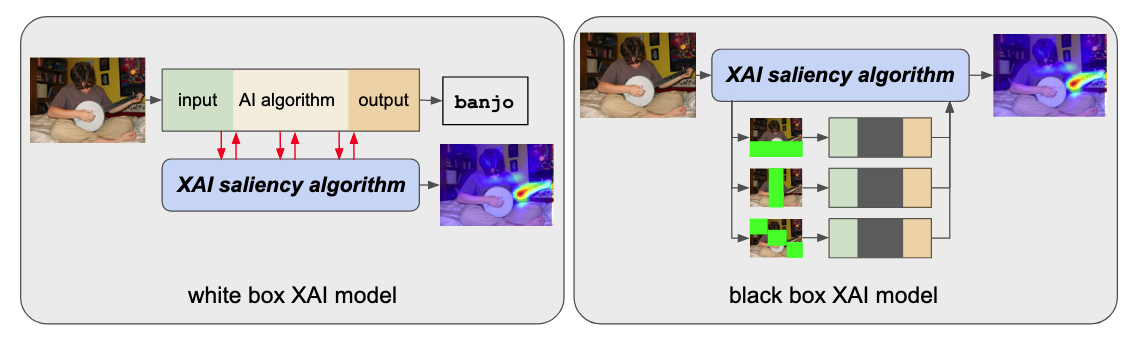
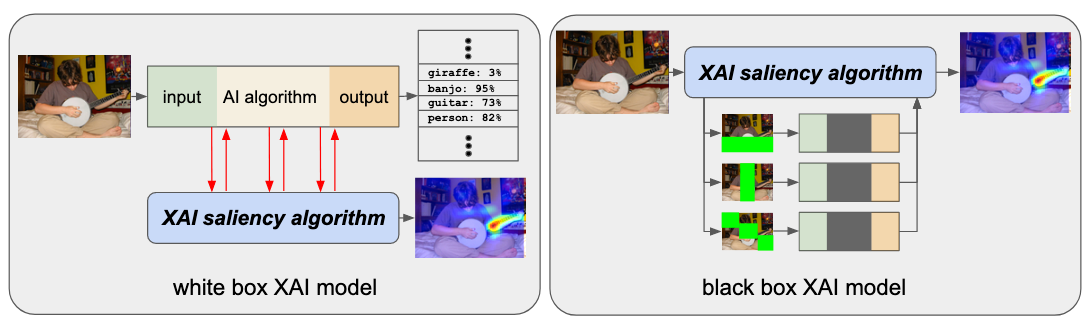
Address final round of comments

Changed region(s): [[0.0, 0.0305, 0.9982, 0.9756]]

diff --git a/docs/introduction.rst b/docs/introduction.rst
@@ -33,12 +33,13 @@ Image Saliency Maps: An Intuitive Introduction
 ----------------------------------------------
 
 Figure 4 shows a deep learning pipeline for recognizing objects in
-images; pixels in the image (in green) are processed by the pipeline
-(in yellow) to produce the output (in orange). Here, the system has been
-trained to recognize 1000 object categories. Its output is a list of
-1000 numbers, one for each object type; each number is between 0 and
-1, representing the system's estimate of whether or not that
-particular object is in the image.
+images; pixels in the image (in green) are processed by the
+Convolutional Neural Network (CNN, in yellow) to produce the
+output (in orange). Here, the system has been trained to recognize
+1000 object categories. Its output is a list of 1000 numbers, one for
+each object type; each number is between 0 and 1, representing the
+system's estimate of whether or not that particular object is in the
+image.
 
 .. figure:: figures/cnn-tagged-scaled.png
 
@@ -98,7 +99,7 @@ approaches to this:
    we can deduce certain aspects of the how the AI and its model behaves.
 
 These are illustrated in Figure 5. Note how the AI algorithm is
-obscured in the black box model.
+not available for inspection in the black box model.
 
 .. figure:: figures/white-box-vs-black-box.png
 
